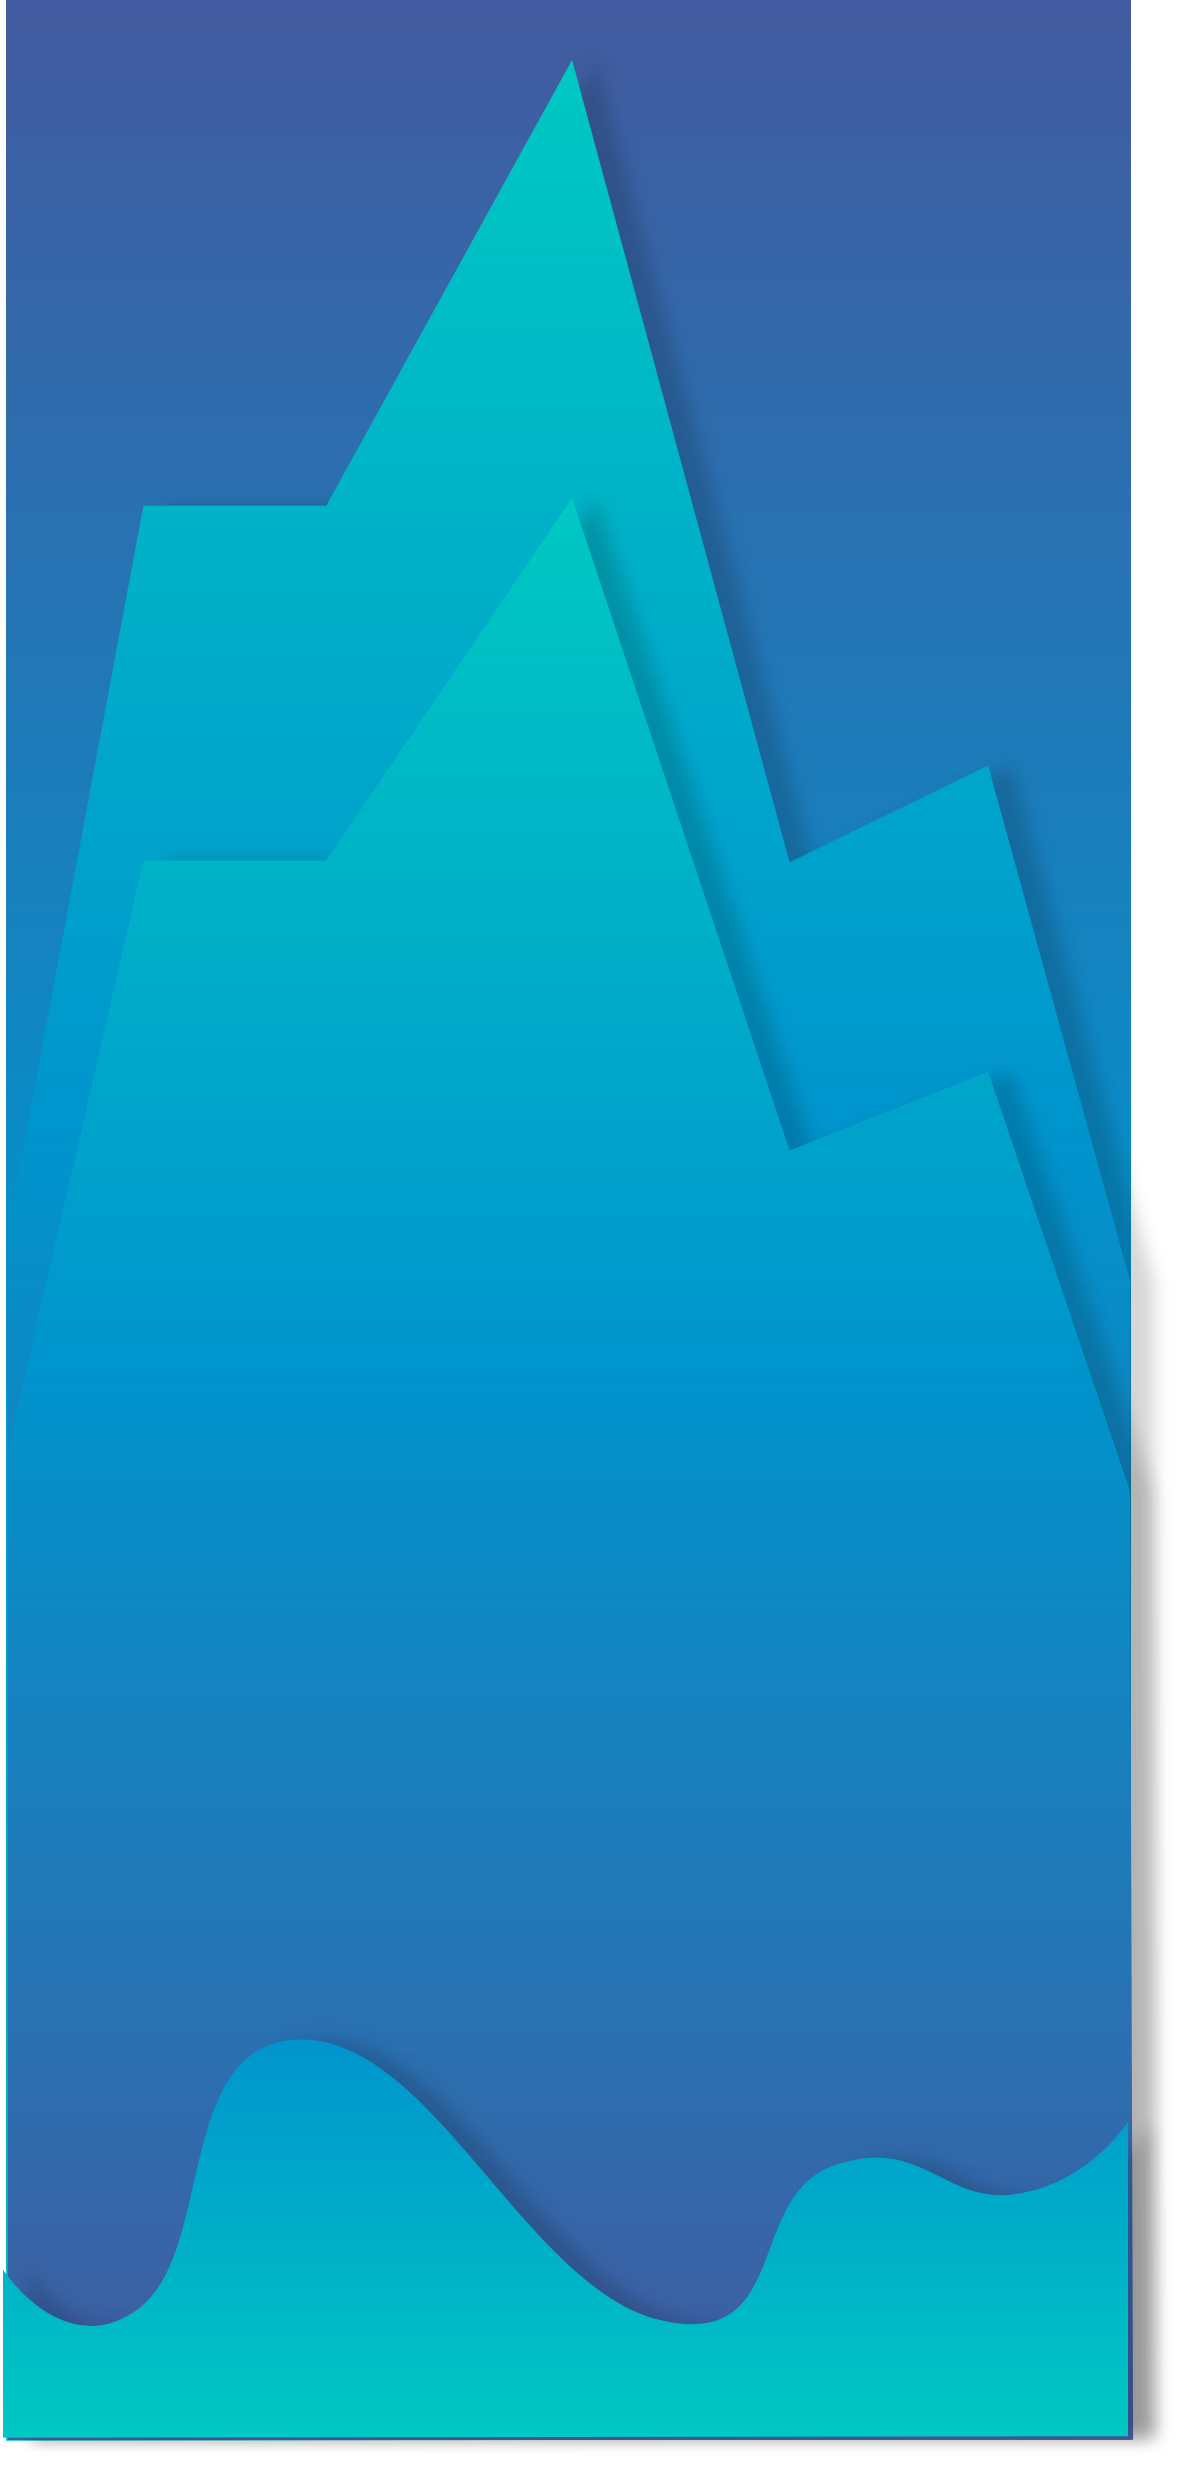
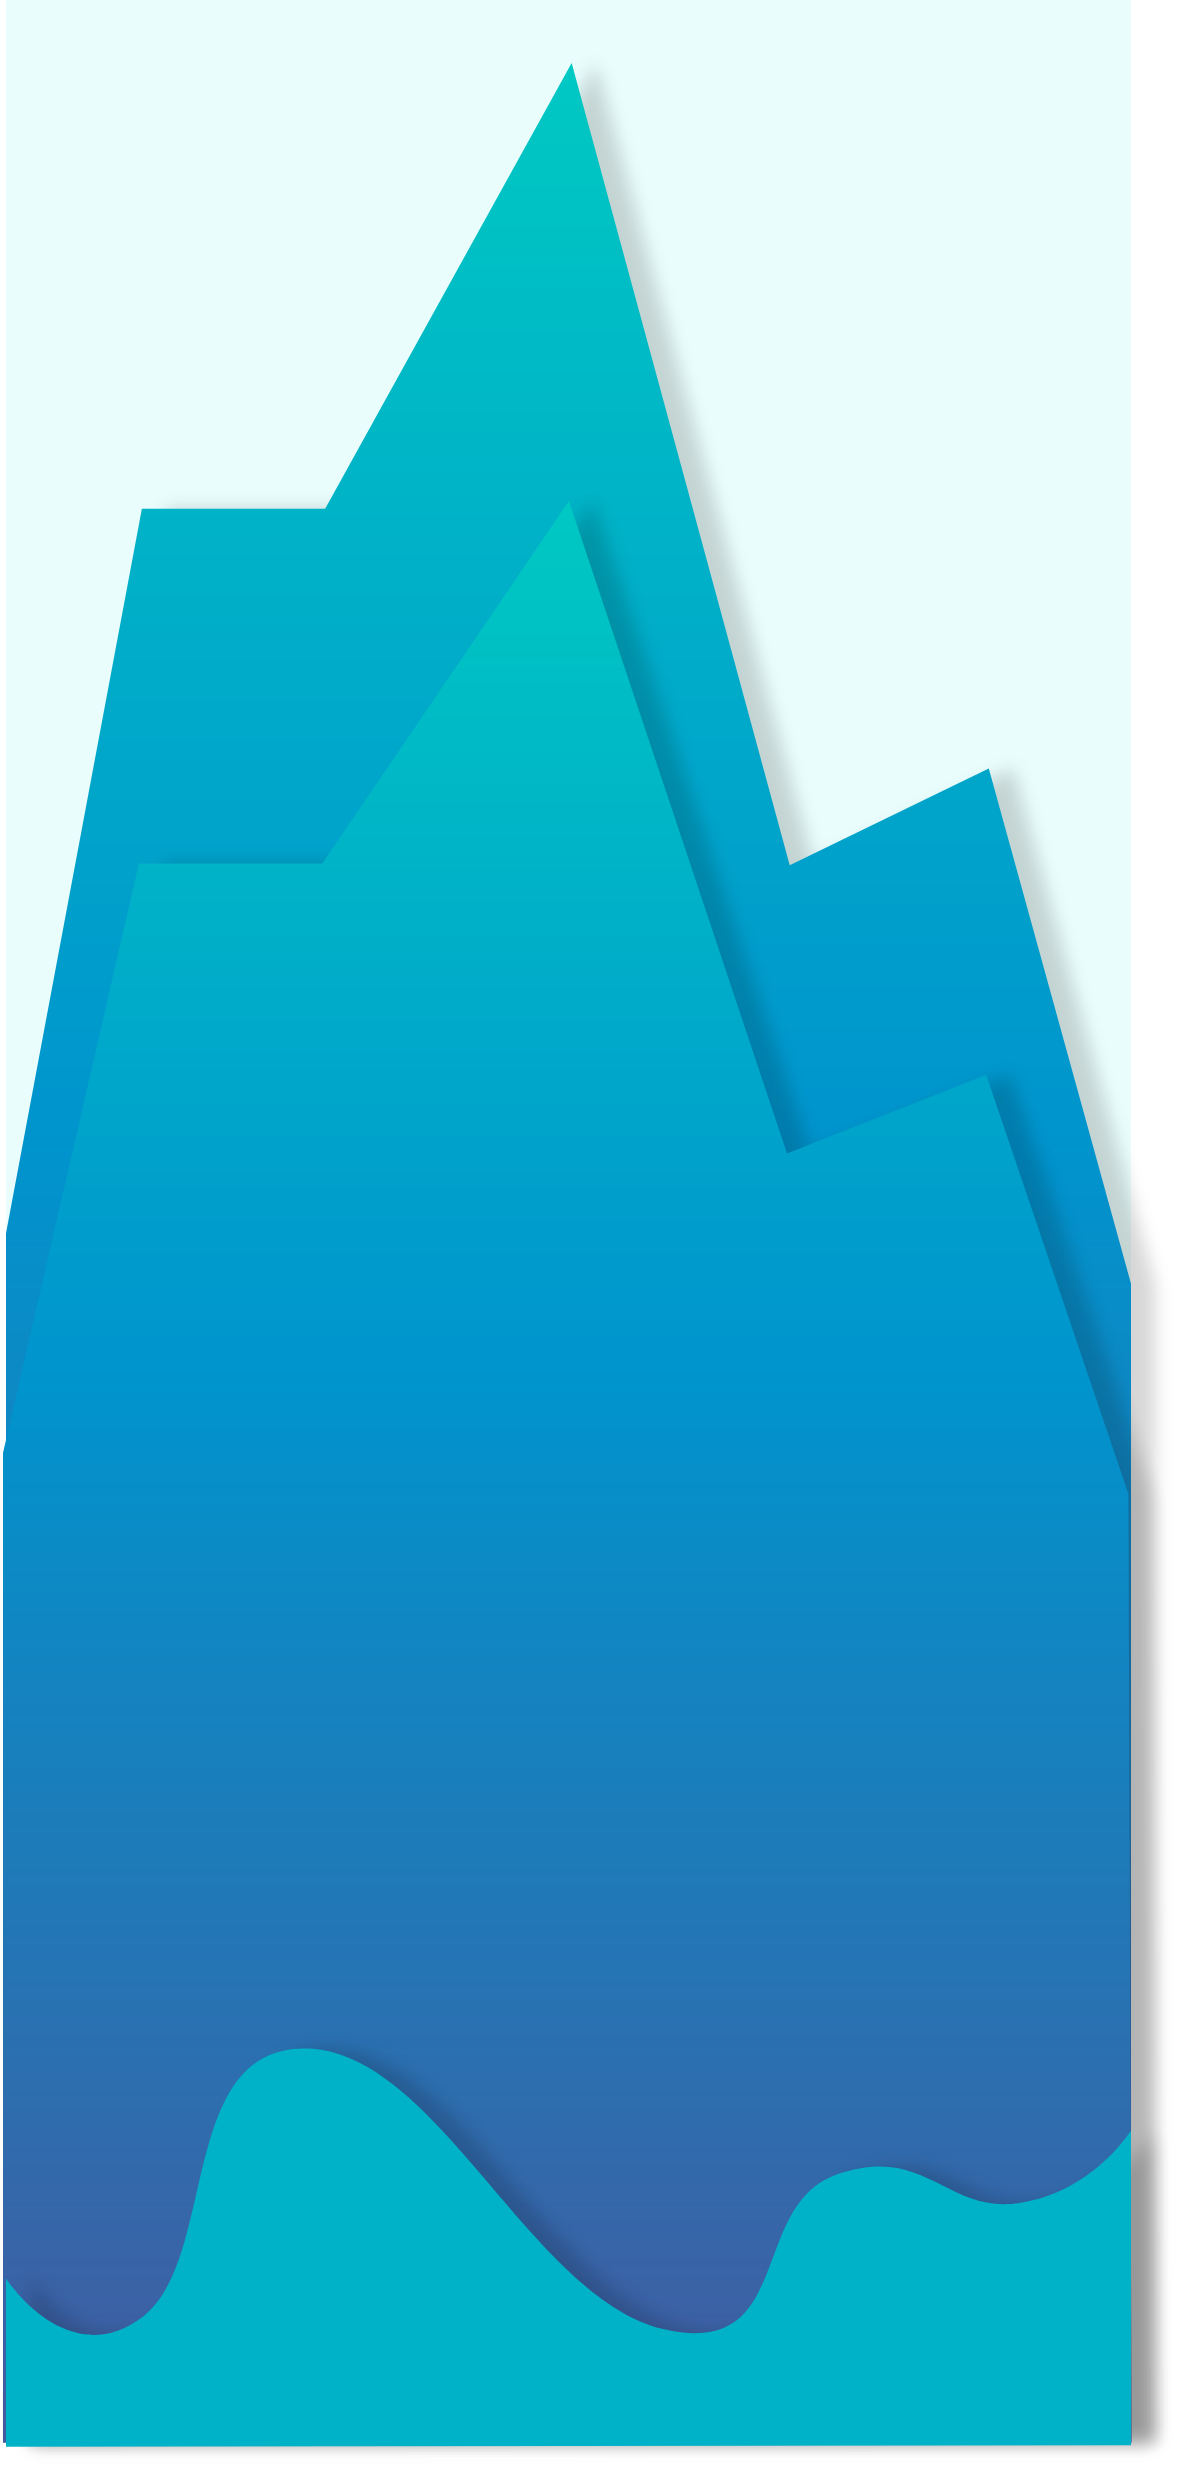
.

diff --git a/cognifeed_app/lib/home/home_page.dart b/cognifeed_app/lib/home/home_page.dart
@@ -31,6 +31,7 @@ class _HomePageState extends State<HomePage> {
   @override
   Widget build(BuildContext context) {
     return Scaffold(
+      backgroundColor: Color(0xffE9FDFC).withOpacity(0.5),
       resizeToAvoidBottomInset: false,
       appBar:
           PreferredSize(preferredSize: Size(0, 0), child: SizedBox.shrink()),

diff --git a/cognifeed_app/lib/home/onboarding_page.dart b/cognifeed_app/lib/home/onboarding_page.dart
@@ -8,7 +8,6 @@ import 'package:flutter/material.dart';
 import 'package:flutter/rendering.dart';
 import 'package:flutter/services.dart';
 import 'package:flutter_svg/svg.dart';
-import 'package:cognifeed_app/constants/Tags.dart';
 
 class OnboardingPage extends StatefulWidget {
   @override
